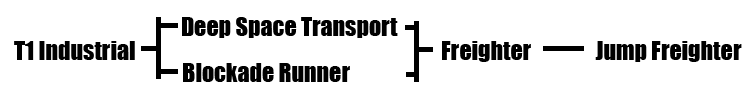
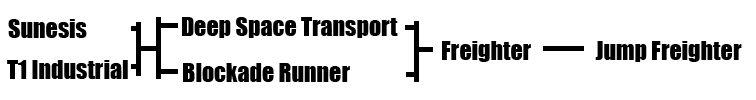
added sunesis

Changed region(s): [[0.0, 0.18, 0.213, 0.81]]

diff --git a/docs/ship-progression.md b/docs/ship-progression.md
@@ -17,6 +17,34 @@ But they serve their role as a starting point for new players and are what you'l
 
 <br>
 
+### Sunesis
+
+The Sunesis is not really a hauling ship. It has a fairly small cargo hold, it looks like some kind of Cylon attack ship and it doesn't quite lend itself very well to the fantasy of being a space trucker.  
+However, it requires minimum skills and can be fitted for instant warp while still carrying around a 1K m³.  
+That means it's much safer to fly than a T1 hauler for a new player.
+
+Here's a fit that even an alpha account can fly:
+
+```
+[Sunesis, Alpha fit]
+Expanded Cargohold II
+Expanded Cargohold II
+Inertial Stabilizers II
+Inertial Stabilizers II
+
+Adaptive Invulnerability Field II
+Adaptive Invulnerability Field II
+Medium Shield Extender II
+Medium Shield Extender II
+
+
+Small Low Friction Nozzle Joints II
+Small Core Defense Field Extender II
+Small Core Defense Field Extender II
+```
+
+<br>
+
 ### Deep Space Transport and Blockade Runner
 
 DSTs and BRs have the same skill requirements which is why I've put them in the same tier here, but they fulfill very different roles.  
